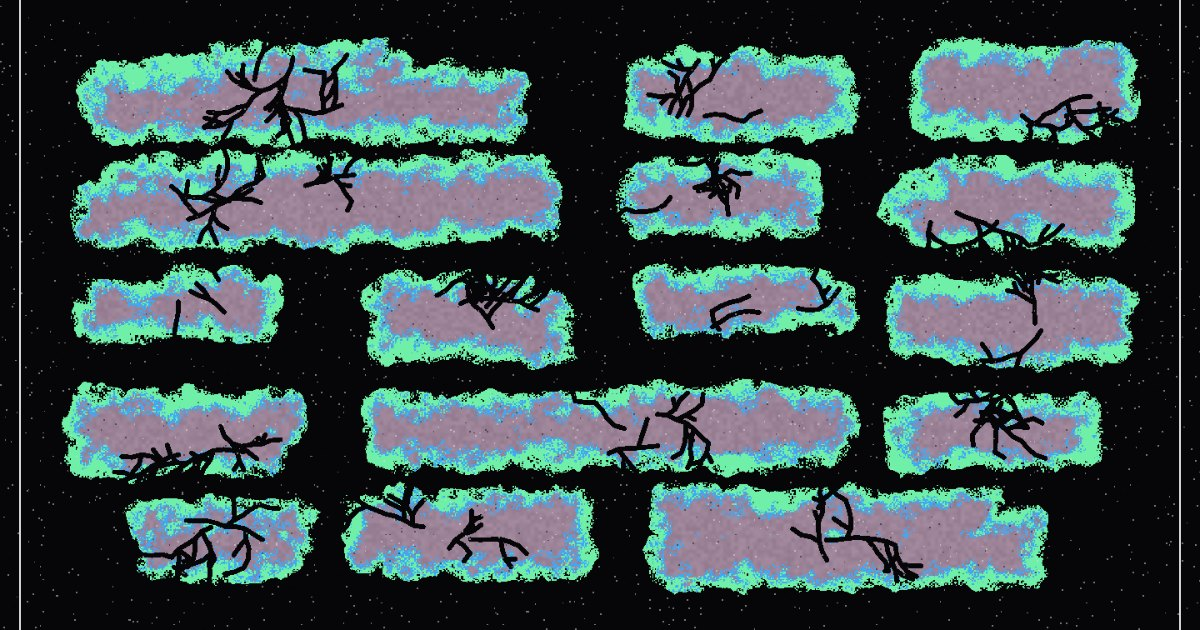
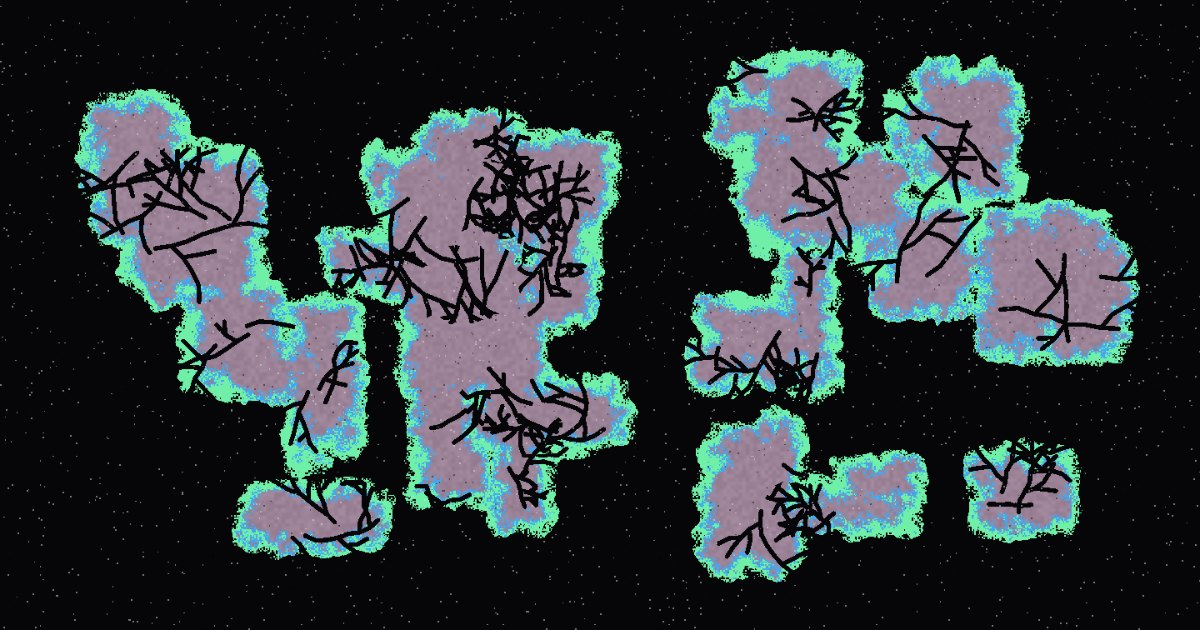
Pith: scatter only, and drop the border
The arrangement picker goes and the cells are always scattered, so the
Columns, Rows and Gap sliders go with it — there is no grid left for them
to describe. In their place are Cells (how many) and Size (how big), which
is what those two things actually are once the grid is gone.

Size is mapped so its useful range sits across the middle of the slider.
At a multiplier of one the cells are exactly big enough to tile the sheet
and everything above it fuses into a single silhouette, so on a straight
mapping every arrangement worth having was crushed into the first
quarter. The default lands on a sheet of separated cells rather than on
the fused mass.

The border rule and its corner crosses go too. The fifth ink stays, as
the colour the grain is speckled in, which is what it was already doing
besides the border.

Claude-Session: https://claude.ai/code/session_01Hb5jk9z6h4o1AzZNFzskh6

diff --git a/pith/index.html b/pith/index.html
@@ -514,18 +514,15 @@ input[type=range]{accent-color:var(--ink)}
       </div>
       <a class="lnk back" href="../index.html">&larr; All tools</a>
     </div>
-    <div class="l-scroll"><details class="grp" open><summary>Field</summary><div class="grp-b"><div class="misc stack"><span class="mhead"><span class="k">Arrangement</span></span><span class="mval"><div class="chips" id="dirs"></div></span></div>
-        <div class="pr"><div class="top"><span class="k">Columns</span><span class="v" id="colsVal">4</span></div><div class="track"><input type="range" id="cols" min="1" max="9" step="1" value="4"></div></div>
-        <div class="pr"><div class="top"><span class="k">Rows</span><span class="v" id="rowsVal">5</span></div><div class="track"><input type="range" id="rows" min="1" max="10" step="1" value="5"></div></div>
-        <div class="pr"><div class="top"><span class="k">Gap</span><span class="v" id="gapVal">28%</span></div><div class="track"><input type="range" id="gap" min="0" max="1" step="0.01" value="0.28"></div></div></div></details>
+    <div class="l-scroll"><details class="grp" open><summary>Field</summary><div class="grp-b"><div class="pr"><div class="top"><span class="k">Cells</span><span class="v" id="countVal">28</span></div><div class="track"><input type="range" id="count" min="1" max="60" step="1" value="28"></div></div>
+        <div class="pr"><div class="top"><span class="k">Size</span><span class="v" id="sizeVal">45%</span></div><div class="track"><input type="range" id="size" min="0" max="1" step="0.01" value="0.45"></div></div></div></details>
     <details class="grp"><summary>Cells</summary><div class="grp-b"><div class="pr"><div class="top"><span class="k">Roundness</span><span class="v" id="roundVal">55%</span></div><div class="track"><input type="range" id="round" min="0" max="1" step="0.01" value="0.55"></div></div>
         <div class="pr"><div class="top"><span class="k">Wobble</span><span class="v" id="wobbleVal">50%</span></div><div class="track"><input type="range" id="wobble" min="0" max="1" step="0.01" value="0.5"></div></div>
         <div class="pr"><div class="top"><span class="k">Band width</span><span class="v" id="bandVal">45%</span></div><div class="track"><input type="range" id="band" min="0" max="1" step="0.01" value="0.45"></div></div>
         <div class="pr"><div class="top"><span class="k">Dither</span><span class="v" id="ditherVal">55%</span></div><div class="track"><input type="range" id="dither" min="0" max="1" step="0.01" value="0.55"></div></div></div></details>
     <details class="grp"><summary>Veins</summary><div class="grp-b"><div class="pr"><div class="top"><span class="k">Amount</span><span class="v" id="veinsVal">50%</span></div><div class="track"><input type="range" id="veins" min="0" max="1" step="0.01" value="0.5"></div></div>
         <div class="pr"><div class="top"><span class="k">Thickness</span><span class="v" id="thickVal">45%</span></div><div class="track"><input type="range" id="thick" min="0" max="1" step="0.01" value="0.45"></div></div></div></details>
-    <details class="grp"><summary>Print</summary><div class="grp-b"><div class="pr"><div class="top"><span class="k">Grain</span><span class="v" id="grainVal">40%</span></div><div class="track"><input type="range" id="grain" min="0" max="1" step="0.01" value="0.4"></div></div>
-        <div class="pr"><div class="top"><span class="k">Border</span><span class="v" id="frameVal">60%</span></div><div class="track"><input type="range" id="frame" min="0" max="1" step="0.01" value="0.6"></div></div></div></details></div>
+    <details class="grp"><summary>Print</summary><div class="grp-b"><div class="pr"><div class="top"><span class="k">Grain</span><span class="v" id="grainVal">40%</span></div><div class="track"><input type="range" id="grain" min="0" max="1" step="0.01" value="0.4"></div></div></div></details></div>
     <div class="l-bot"><details class="grp" open><summary>Color</summary><div class="grp-b"><div class="misc"><span class="mhead"><span class="k">Inks</span><span class="v" id="swCountVal">5</span></span><span class="mval"><div class="sw-grid" id="swatches"></div></span></div>
         
       <div class="misc"><span class="mhead"></span><span class="mval"><button class="lnk" id="shufColors">New colors</button><button class="lnk" id="rotColors">Rotate</button></span></div></div></details>
@@ -617,11 +614,8 @@ function relLum(h){const[r,g,b]=hex2rgb(h).map(v=>{v/=255;return v<=.03928?v/12.
 const RATIOS=[{id:"9:16",w:9,h:16},{id:"3:4",w:3,h:4},{id:"4:5",w:4,h:5},{id:"1:1",w:1,h:1},
  {id:"5:4",w:5,h:4},{id:"4:3",w:4,h:3},{id:"3:2",w:3,h:2},{id:"16:9",w:16,h:9}];
 const MODES=[["boil","Boil"],["grow","Grow"],["flow","Flow"]];
-/* How the cells are arranged on the sheet. */
-const DIRS=[["bricks","Bricks"],["grid","Grid"],["scatter","Scatter"]];
-
 /* Ground, then the three bands from the edge of a cell to its middle, then
-   the colour the frame and the grain are printed in. */
+   the colour the grain is speckled in. */
 const PALETTES=[
   ["#060608","#6FEFA8","#3FA9F5","#9B8296","#E6E6E6"],
   ["#0A0A0A","#F2E14C","#FF7A29","#8E3B2E","#EFE9DA"],
@@ -632,11 +626,10 @@ const PALETTES=[
 
 const S={
   seed:7, ratio:"3:4",
-  kind:"bricks",
-  cols:4, rows:5, gap:0.28,
+  count:28, size:0.45,
   round:0.55, wobble:0.5, band:0.45, dither:0.55,
   veins:0.5, thick:0.45,
-  grain:0.4, frame:0.6,
+  grain:0.4,
   pal:PALETTES[0].slice(),
   motion:{on:false,mode:"boil",amount:0.6,fps:12,frames:36},
   size_px:2400
@@ -692,35 +685,23 @@ function segDP(px,py,x0,y0,x1,y1){
 function buildP(W,H){
   const rnd=rngP(Math.imul((S.seed|0)+3,2654435761));
   const m=Math.min(W,H)*0.085;
-  const cols=Math.max(1,Math.round(S.cols)), rows=Math.max(1,Math.round(S.rows));
-  const gw=(W-2*m)/cols, gh=(H-2*m)/rows;
-  const boxes=[];
-  if(S.kind==="scatter"){
-    const n=cols*rows;
-    for(let i=0;i<n;i++){
-      const bw=gw*(0.8+rnd()*1.5), bh=gh*(0.8+rnd()*1.3);
-      boxes.push([m+rnd()*(W-2*m-bw), m+rnd()*(H-2*m-bh), bw, bh]);
-    }
-  }else if(S.kind==="grid"){
-    for(let r=0;r<rows;r++) for(let c=0;c<cols;c++)
-      boxes.push([m+c*gw, m+r*gh, gw, gh]);
-  }else{
-    /* runs of one to three columns, so a row reads as a line of words of
-       different lengths rather than as a table */
-    for(let r=0;r<rows;r++){
-      let c=0;
-      while(c<cols){
-        const run=Math.min(cols-c, 1+((rnd()*rnd()*3)|0));
-        boxes.push([m+c*gw, m+r*gh, gw*run, gh]);
-        c+=run;
-      }
-    }
-  }
+  const IW=W-2*m, IH=H-2*m;
+  const n=Math.max(1,Math.round(S.count));
+  /* The size a cell would be if this many of them shared the sheet out
+     evenly, times what the Size control asks for. Everything the cell is
+     drawn with is measured off this, so a sheet of sixty gets a proportionate
+     outline and a proportionate band rather than the one a sheet of four
+     would get. */
+  /* At a multiplier of one the cells are exactly big enough to tile the
+     sheet, so everything above it fuses into a single silhouette and the
+     picture stops being cells. The useful range sits well below that, so the
+     slider is mapped to put it across the middle rather than into the first
+     quarter where none of it can be reached. */
+  const base=Math.sqrt(IW*IH/n)*(0.28+S.size*0.95);
   const cells=[];
-  for(const b of boxes){
-    const g=Math.min(gw,gh)*0.05*(0.15+S.gap*1.4);
-    const x0=b[0]+g, y0=b[1]+g, w=b[2]-2*g, h=b[3]-2*g;
-    if(w<4||h<4) continue;
+  for(let i=0;i<n;i++){
+    const w=base*(0.75+rnd()*1.40), h=base*(0.75+rnd()*1.25);
+    const x0=m+rnd()*Math.max(1,IW-w), y0=m+rnd()*Math.max(1,IH-h);
     const rects=[];
     const nR=3+((rnd()*2)|0);
     for(let k=0;k<nR;k++){
@@ -742,14 +723,14 @@ function buildP(W,H){
       const R=rects[(rnd()*rects.length)|0];
       let x=R.cx+(rnd()-0.5)*R.hw*1.1, y=R.cy+(rnd()-0.5)*R.hh*1.1;
       let a=rnd()*TAUP;
-      const walk=(x,y,a,n,depth)=>{
-        for(let i=0;i<n;i++){
+      const walk=(x,y,a,nn,depth)=>{
+        for(let i=0;i<nn;i++){
           const nx=x+Math.cos(a)*step, ny=y+Math.sin(a)*step;
           segs.push([x,y,nx,ny]);
           x=nx; y=ny;
           a+=(rnd()-0.5)*0.9;
           if(depth<2 && rnd()<0.42) walk(x,y,a+(rnd()<0.5?-1:1)*(0.6+rnd()*0.6),
-                                        Math.max(1,(n*0.6)|0),depth+1);
+                                         Math.max(1,(nn*0.6)|0),depth+1);
         }
       };
       walk(x,y,a,4+((rnd()*5)|0),0);
@@ -761,7 +742,7 @@ function buildP(W,H){
     }
     cells.push({rects,segs,bx0,by0,bx1,by1,sd:(rnd()*9973)|0});
   }
-  return cells;
+  return {cells,cs:base};
 }
 
 /* The two fields the picture is read out of are big, and allocating them per
@@ -777,8 +758,7 @@ function paint(c,W,H,f){
   const raw=S.pal.length?S.pal:PALETTES[0];
   const ground=rgbP(raw[0]), edge=rgbP(raw[1]||"#6FEFA8");
   const rim=rgbP(raw[2]||raw[1]), core=rgbP(raw[3]||raw[2]||raw[1]);
-  const fr=raw[4]||raw[1];
-  const frC=rgbP(fr);
+  const grainC=rgbP(raw[4]||raw[1]);
   const U=Math.sqrt(W*H);
 
   const boil=(M.on&&M.mode==="boil") ? (f|0)*911 : 0;
@@ -787,19 +767,17 @@ function paint(c,W,H,f){
   const grow=(M.on&&M.mode==="grow") ? 1+(1-Math.cos(ph))*0.5*M.amount*0.20 : 1;
   const flow=(M.on&&M.mode==="flow") ? Math.cos(ph)*M.amount*40 : 0;
 
-  const cells=buildP(W,H);
+  const plan=buildP(W,H), cells=plan.cells;
   const N=W*H, B=bufP(N), DI=B.d, VE=B.v;
   DI.fill(1e9); VE.fill(1e9);
 
   /* ---- the two distance fields ---- */
   /* Everything about a cell is measured against the cell, not against the
-     page. Sized off the page, a sheet of nine by ten gets the same lump on
-     its outlines and the same width of colour band as a sheet of two by two —
-     which at that count is most of the cell, and the field breaks up into
-     confetti with no shapes left in it. */
-  const mg=Math.min(W,H)*0.085;
-  const cs=Math.min((W-2*mg)/Math.max(1,Math.round(S.cols)),
-                    (H-2*mg)/Math.max(1,Math.round(S.rows)));
+     page. Sized off the page, a sheet of sixty small cells gets the same lump
+     on its outlines and the same width of colour band as a sheet of four big
+     ones — which at that count is most of the cell, and the field breaks up
+     into confetti with no shapes left in it. */
+  const cs=plan.cs;
   const ns=cs*(0.10+S.wobble*0.18);        /* how big the lumps in an edge are */
   const amp=cs*0.12*S.wobble;
   const pad=Math.ceil(amp*2.2+cs*0.04);
@@ -873,7 +851,7 @@ function paint(c,W,H,f){
       }
       if(gr>0){
         const h=hshP((x/gsc)|0,(y/gsc)|0,S.seed+boil+7919);
-        if(h>1-gr*0.016){ r=(r+frC[0])*0.5; g=(g+frC[1])*0.5; b=(b+frC[2])*0.5; }
+        if(h>1-gr*0.016){ r=(r+grainC[0])*0.5; g=(g+grainC[1])*0.5; b=(b+grainC[2])*0.5; }
         else if(h<gr*0.010){ r*=0.55; g*=0.55; b*=0.55; }
       }
       px[p]=r<0?0:(r>255?255:r);
@@ -887,26 +865,6 @@ function paint(c,W,H,f){
   c.globalAlpha=1;
   c.putImageData(img,0,0);
 
-  /* ---- the frame and its corner crosses ---- */
-  if(S.frame>0.02){
-    const in0=Math.round(Math.min(W,H)*0.030*(0.4+S.frame));
-    c.lineCap="butt"; c.lineJoin="miter"; c.setLineDash([]);
-    c.strokeStyle=fr;
-    /* A whole number of pixels wide, and an odd width laid on the half pixel.
-       Left as a fraction the rule straddles two rows and both come out half
-       lit, so the border prints as a grey smudge instead of a line. */
-    const lw=Math.max(1,Math.round(U*0.0018));
-    c.lineWidth=lw;
-    const o=(lw%2)?0.5:0;
-    c.strokeRect(in0+o,in0+o,W-in0*2,H-in0*2);
-    const arm=Math.round(U*0.007), off=Math.round(in0*0.45);
-    c.beginPath();
-    for(const cx of [off,W-off]) for(const cy of [off,H-off]){
-      c.moveTo(cx-arm+o,cy+o); c.lineTo(cx+arm+o,cy+o);
-      c.moveTo(cx+o,cy-arm+o); c.lineTo(cx+o,cy+arm+o);
-    }
-    c.stroke();
-  }
 }
 
 const art=$("#art"), ctx=art.getContext("2d",{alpha:false});
@@ -1068,7 +1026,7 @@ function buildSwatches(){
   S.pal.forEach((c,i)=>{
     const b=document.createElement("button");
     b.className="sw"+(lock?" locked":"");b.type="button";
-    b.setAttribute("aria-label",["Ground","Edge","Rim","Core","Border"][i]||("Ink "+(i+1)));
+    b.setAttribute("aria-label",["Ground","Edge","Rim","Core","Grain"][i]||("Ink "+(i+1)));
     b.innerHTML=`<span class="fill" style="background:${c}"></span>`+
       `<input type="color" value="${c}"><span class="x" aria-hidden="true">\u00d7</span>`;
     b.querySelector("input").addEventListener("input",e=>{
@@ -1107,7 +1065,6 @@ function bindRange(id,fmt,set,after){
 }
 
 buildRatios();buildSwatches();accent();
-segmented($("#dirs"),DIRS,()=>S.kind,v=>{S.kind=v;reframe();});
 segmented($("#modes"),MODES,()=>S.motion.mode,v=>{S.motion.mode=v;reframe();});
 $("#shufColors").addEventListener("click",()=>{
   setPalette(window.__freshPalette(PALETTES[(Math.random()*PALETTES.length)|0]));
@@ -1115,9 +1072,8 @@ $("#shufColors").addEventListener("click",()=>{
 $("#rotColors").addEventListener("click",()=>{
   setPalette([S.pal[0]].concat(S.pal.slice(2),[S.pal[1]]));
 });
-bindRange("cols",v=>v|0,v=>S.cols=v|0);
-bindRange("rows",v=>v|0,v=>S.rows=v|0);
-bindRange("gap",v=>Math.round(v*100)+"%",v=>S.gap=v);
+bindRange("count",v=>v|0,v=>S.count=v|0);
+bindRange("size",v=>Math.round(v*100)+"%",v=>S.size=v);
 bindRange("round",v=>Math.round(v*100)+"%",v=>S.round=v);
 bindRange("wobble",v=>Math.round(v*100)+"%",v=>S.wobble=v);
 bindRange("band",v=>Math.round(v*100)+"%",v=>S.band=v);
@@ -1125,7 +1081,6 @@ bindRange("dither",v=>Math.round(v*100)+"%",v=>S.dither=v);
 bindRange("veins",v=>Math.round(v*100)+"%",v=>S.veins=v);
 bindRange("thick",v=>Math.round(v*100)+"%",v=>S.thick=v);
 bindRange("grain",v=>Math.round(v*100)+"%",v=>S.grain=v);
-bindRange("frame",v=>Math.round(v*100)+"%",v=>S.frame=v);
 bindRange("amt",v=>v.toFixed(2),v=>S.motion.amount=v);
 $("#fps").addEventListener("input",e=>{S.motion.fps=parseInt(e.target.value,10);
   $("#fpsVal").textContent=S.motion.fps+" fps";if(playing)setPlaying(true);});
